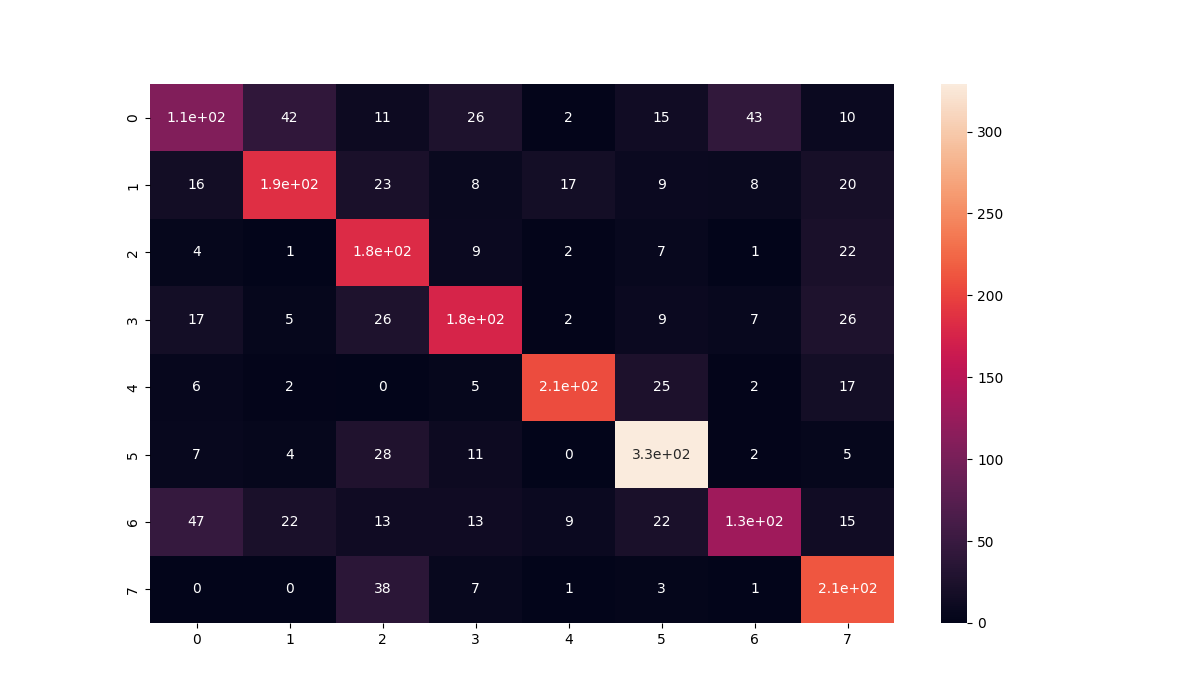
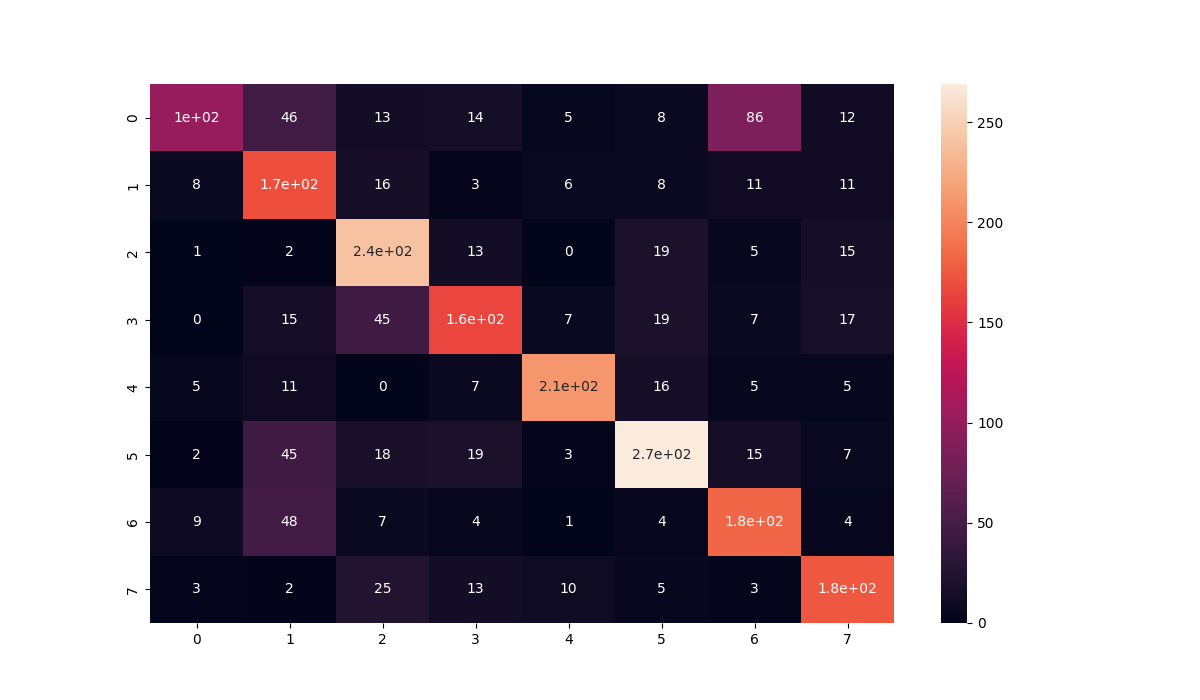
making random transforms bigger didnt worked as good

diff --git a/get_dataloader.py b/get_dataloader.py
@@ -30,8 +30,8 @@ def weighted(labels, batch_size, class_weights=None):
     m_transforms = transforms.Compose([
             transforms.ToTensor(),
             transforms.Normalize(0.4847, 0.2107),
-            transforms.RandomAdjustSharpness(4),
-            transforms.RandomRotation(45)
+            transforms.RandomAdjustSharpness(5),
+            transforms.RandomRotation(50)
         ])
     dataset = HiRiseDataset(csv_file=labels, root='data/datasetLabels/images', transform=m_transforms)
 
